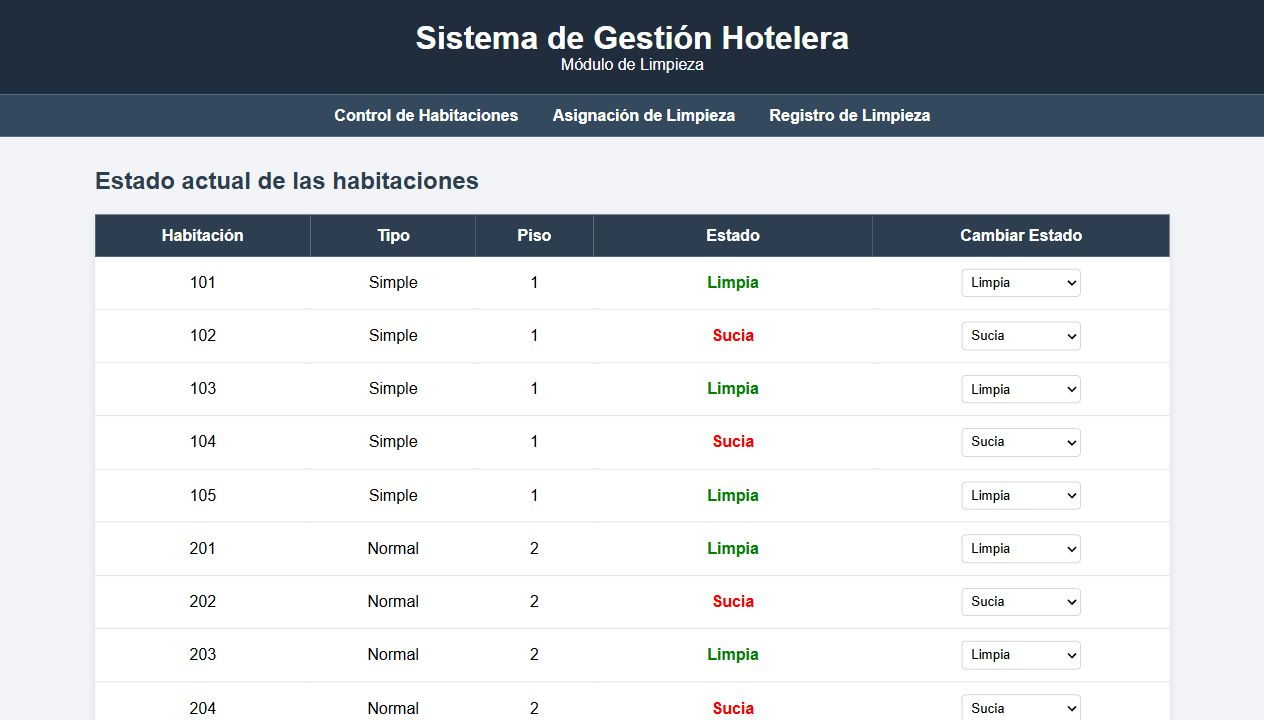
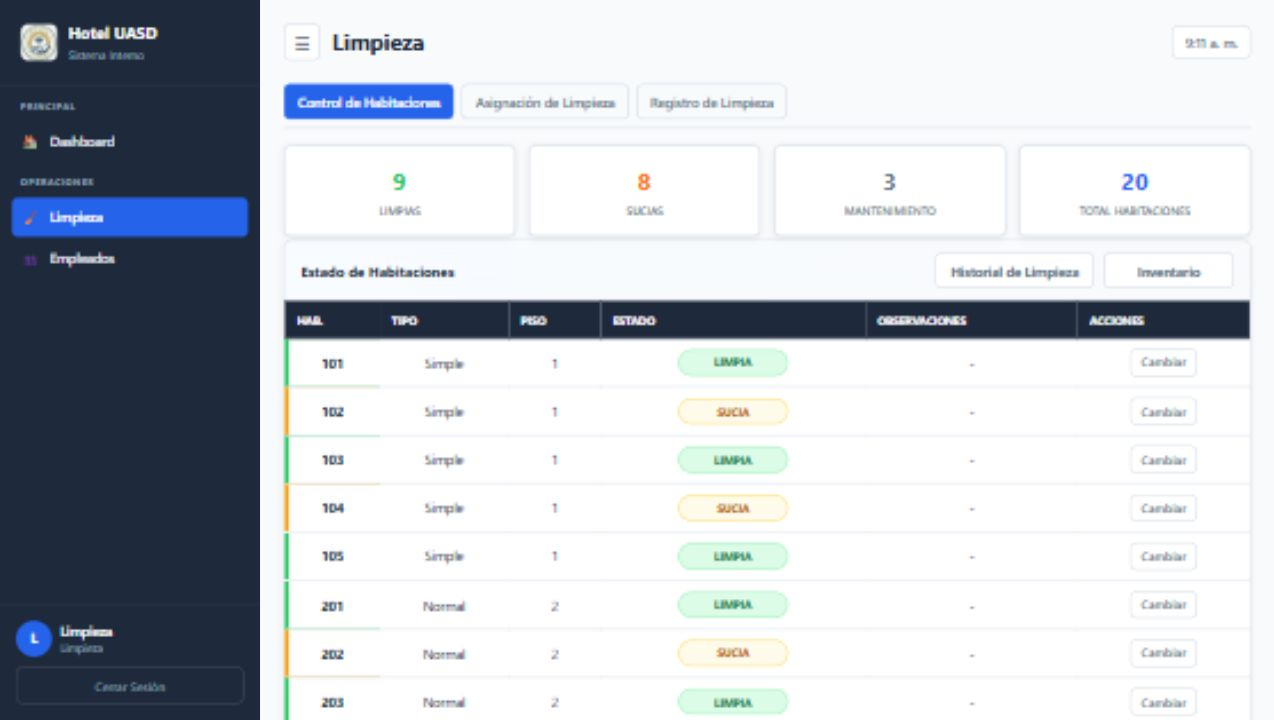
Actualizar captura del módulo de limpieza

diff --git a/index.html b/index.html
@@ -149,7 +149,7 @@
                             <span>Colaboración</span>
                             <span>Liderazgo</span>
                         </div>
-                        <a href="https://github.com/nowelbaez2017-ux/nowelbaez2017-ux.github.io/tree/hotel-uasd-sistema-gestion/modules/limpieza" target="_blank" class="project-link">
+                        <a href="https://github.com/nabxo/sistema-hotelero-limpieza" target="_blank" class="project-link">
                             Ver proyecto <i class="fab fa-github"></i>
                         </a>
                     </div>